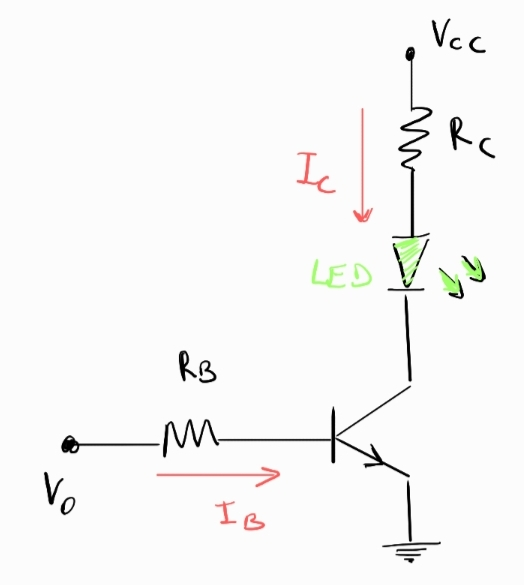
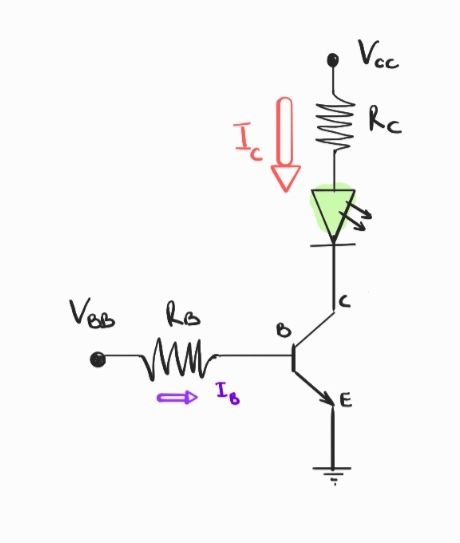
1

diff --git a/Apuntes/5.No_lineales/3- Transistores.md b/Apuntes/5.No_lineales/3- Transistores.md
@@ -1,59 +1,104 @@
-## Conceptos basicos
+## Conceptos básicos
 
-![trans_1](images/curva_trans.jpg)
+Un transistor es un componente circuital no lineal basado en semiconductores. No es la idea explicar aquí el detalle de su funcionamiento, sino más bien adquirir una cierta intuición de como y para que se utiliza.
 
-Básicamente un transistor es un componente circuital no lineal, basado en semiconductores, de tres patas: Base, Colector y Emisor. 
+La forma más intuitiva de pensarlo es como un tubo con agua mas un grifo: Si cerramos el grifo no circula agua (CORTE), si lo abrimos un poquito, circulará algo de agua (ACTIVA), y  si lo abrimos todo circulará toda el agua disponible (SATURACIÓN).
 
-Para que el transistor conduzca, en nuestra configruación tenemos que asegurarnos de que $V_{BE}\approx0.7V$, esto es parecido a lo que pasa con el diodo.
+Como ven, el grifo me permite **controlar** la circulación de agua.
 
-¿Para que lo utilizamos? La idea general es que con una pequeña corriente en la base, $I_B$, puedo *controlar* grandes variaciones en la corriente del colector $I_C$. Esto lo hace muy útil para muchas aplicaciones.
 
-La relación entre $I_C$ vs. $V_{CE}$ para distintos valores de la corriente de base $I_B$ nos da lo que se conoce como *zonas de trabajo* del transistor.
+![trans_1](images/esquema_transistor.jpg)
 
-**Si $V_{CE}<0.3$ estamos en zona de saturación**. Esto parece anti intuitivo por que la curva se plancha para $V_{CE}>0.3$. No obstante, el término saturación no viene de la descripción de la curva, si no de que en ese rango de valores al aumentar $I_B$ no puedo hacer que se mueva mucho $I_C$. En esta zona de trabajo podemos hacer interruptures y compuertas lógicas.
 
-**Si $V_{CE}>0.3$ estamos en la zona activa**, aqui se cumple una relación lineal entre la corriente de la base y el colector,
+Ahora bien, volviendo a la electronica, el transistor es un elemento de tres patas: Base, Colector y Emisor. La base nos permite abrir el grifo: haciendo circular una pequeña corriente por esa rama, controlamos la corriente que circula por las ramas Colector - Emisor.
+
+Notar que vale la ley de mallas,
 
 $$
-I_C = \beta I_B,
+I_B = I_C + I_E
 $$
 
-En esta zona se diseñan principalmente amplificadores.
+Asimismo, hay dos tensiones importantes que tendremos que analizar: 
+
+1) La tensión $V_{BE}$. Tenemos que pensar que entre B y E hay un diodo de silicio, por lo tanto para que el transistor salga de CORTE tenemos que asegurarnos de que caigan $0.7 V$ entre B y E.
+
+2) La tensión $V_{CE}$. Setear de manera correcta esta tensión, me permite definir de que manera trabajará el transistor. 
+
+
+En terminos generales el transistor trabaja en dos configuraciones: ACTIVA y CORTE-SATURACIÓN. De eso hablo en el apartado siguiente.
+
+### Configuración y puntos de trabajo
+
+Hay dos formas de utilizar un transistor. Para configurar alguna de ellas tenemos que elgir cuidadosamente los valores de las resistencias del circuito y de las fuentes para que se cumplan las condiciones que se indican a continuación.
+
+
+**1. Activa**
+
+En esta configuración se cumple una relación muy importante entre la corriente de base y la corriente de colector,
+
+$$
+I_C = \beta I_B
+$$
+
+donde $\beta$ se conoce como ganancia. Su valor depende del modelo del transistor, un valor típico es $\beta=100$. En concreto, con una pequeña corriente de base podemos controlar una gran corriente de colector.
+
+La tensión entre colector y emisor, $V_{CE}$, en esta configuración tiene que ser mayor $0.3V$.
+
+En esta configuración el transistor se usa como **amplificador**. Las variaciones en la corriente de base se reflejan en la corriente de colector. Como la corriente de base es chica sus pequeñas variaciones serán capturadas con grandes variaciones en la corriente de colector, lo cual permite amplificar la señal.
+
+
+**2. Corte - Saturación**
+
+En esta configuración utilizamos el transistor como una **llave electronica**, quiero que si no hay corriente en la base, la llave este cerrada, y que cuando haya corriente en la base, la llave se abra por completo. Es decir, en esta configuración quiero crear una especie de ON-OFF (0-1) controlado por la corriente de base. Esto que parece una pavada es el fundamento de toda la electronica digital moderna así que respeten.
+
+En la configuración Corte-saturación la corriente de base y de colector ya no siguen la relación lineal que teniamos en Activa. En saturación ya abrimos la llave por completo, por más que SE siga aumentando la corriente de base no se va a abrir más, por eso se dice que esta "saturado". No obstante, para hacer los calculos, la relación entre $I_B$ y $I_C$ se puede estimar definindo un $\beta_{sat}$,
+
+$$
+I_C(sat) \approx \beta_{sat} I_B
+$$
+
+$$
+\beta_{sat} = \beta/10
+$$
+
+Resepcto a la tensión colector - emisor, tiene que ser menor a $0.3V$, idealmente para los calculos podemos trabajar con $V_{CE}=0$.
 
 ---
-## Experimentos
+### Ejemplos de cálculo y propuesta de experimentos
 
-### (1) Interruptor, encender un Led
+#### (1) Interruptor, encender un Led
+
+En este ejemplo vemos como obtener los valores para que el transistor, funcionando en Corte-saturación, funcione como un interruptor para encender un led.
 
 ![led](images/trans_led.jpg)
 
 La rama vertical tiene un Led que quiero encender. Para eso necesito que la diferencia de potencial en sus bornes sea $V_{LED}=2V$ y que la corriente $I_C\leq20mA$, para no quemarlo. En función de eso tendremos que calcular los valores de los otros parámetros del circuito.
 
-Queremos hacer un interruptor ON/OFF, tal que cuando la tensión de control es $V_0=0$ el led esta apagado, y cuando setee $V_0\geq5V$ el led se prenda.
+Queremos hacer un interruptor ON/OFF, tal que cuando la tensión de control es $V_{BB}=0$ el led esta apagado, y cuando setee $V_0\geq5V$ el led se prenda.
 
 **Paso 1) Determinación de $R_C$**. 
 
 En la rama vertical se tiene que cumplir
 
 $$
-V_{cc} = I_C R_C + V_{LED} + V_{CE}
+V_{CC} = I_C R_C + V_{LED} + V_{CE}
 $$
 
-sabemos que $V_{LED}=2V$, $I_C\leq20mA$. Además queremos trabajar en saturación, entonces $V_{CE}\leq0.3V$. Supongamos que seteamos $V_{cc}=5V$, algo típico. Con eso puedo calcular el valor de $R_C$ como,
+sabemos que $V_{LED}=2V$, $I_C\leq20mA$. Además queremos trabajar en saturación, entonces hacemos $V_{CE}=0$. Supongamos que seteamos $V_{cc}=5V$, algo típico. Con eso puedo calcular el valor de $R_C$ como,
 
 $$
-R_C = \frac{V_{cc} - V_{LED} - V_{CE}}{I_C}
-$$
-
-$$
-R_C = \frac{5 - 2 - 0.3}{20.10^{-3}} [\Omega]
+R_C = \frac{V_{cc} - V_{LED}}{I_C}
 $$
 
 $$
-R_C \approx 135\Omega
+R_C = \frac{5 - 2 }{20.10^{-3}} [\Omega]
 $$
 
-Como hice la cuenta con los valores límites, pongo una resistencia mas grande, por ejemplo tomo $R_C=200$ $\Omega$
+$$
+R_C = 150\Omega
+$$
+
+Como hice la cuenta con el valor límite que soporta el led, para estar tranquilo pongo una resistencia mas grande, por ejemplo tomo $R_C=200$ $\Omega$
 
 **Paso 2) Determinación de $I_B$ necesaria**.
 
@@ -77,13 +122,13 @@ $$
 En la rama horizontal se tiene que cumplir,
 
 $$
-V_0 = I_B R_B + V_{BE}
+V_{BB} = I_B R_B + V_{BE}
 $$
 
 Tomando $V_0=5V$ y sabiendo que $V_{BE}=0.7$, entonces,
 
 $$
-R_B = \frac{V_0 - V{BE}}{I_B}
+R_B = \frac{V_{BB} - V_{BE}}{I_B}
 $$
 
 $$
